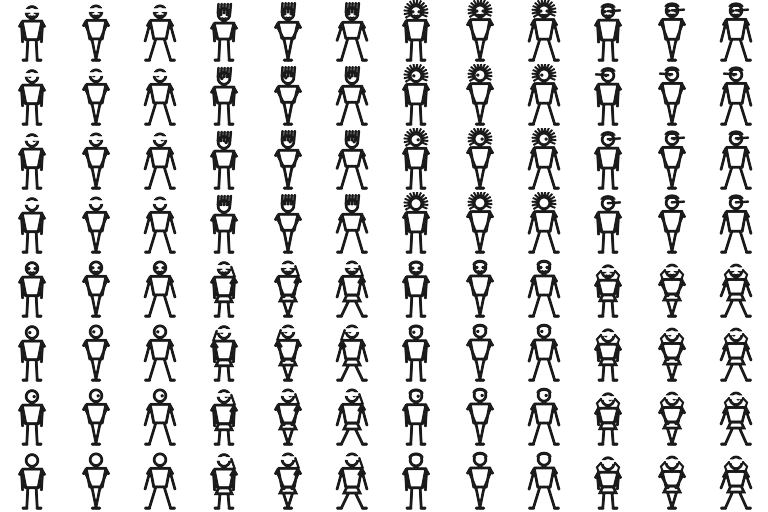
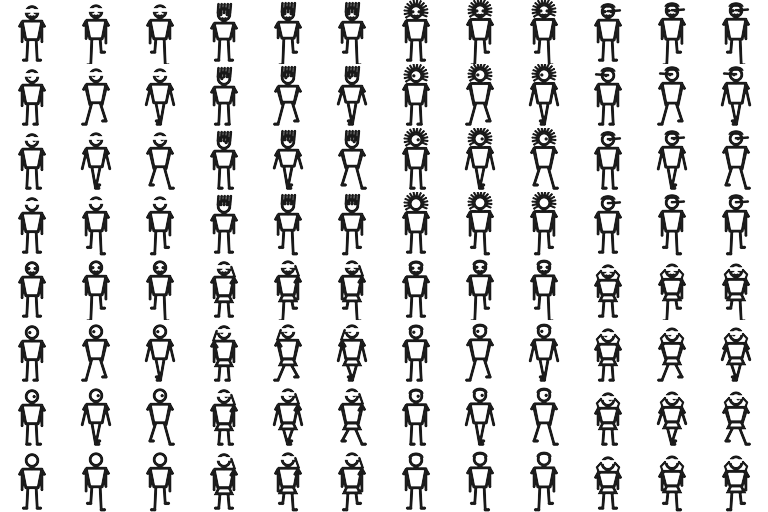
fix(character): 简笔画走路改为左右脚交替迈步
原走路只是脚横向小摆, 读不出步态。改为:
- 帧0=站立中性(停下停此帧), 帧1/2=左右脚交替前后迈步
- 后摆脚抬起离地, 迈步时身体轻微上弹
- 手臂与同侧腿反向摆; 迈步方向按朝向(上下纵向/左右横向)

diff --git a/scripts/gen_doodle_sprites.py b/scripts/gen_doodle_sprites.py
@@ -100,9 +100,14 @@ def draw_figure(direction, phase, params):
     w = C * 0.05
     b = params['build']
     cx = C*0.5
-    # 走路: 相位 0/1/2 -> 中性/左迈/右迈 ; 1px 上下弹跳
-    stride = {0: 0.0, 1: -1.0, 2: 1.0}[phase]
-    bounce = (-C*0.012) if phase != 0 else 0.0
+    # 步态: 帧0=站立中性(停下时停在这帧), 帧1/2=左右脚交替迈步
+    # (左腿, 右腿) 沿"前进轴"的位移: +前 / -后
+    lf, rf = {0: (0, 0), 1: (1, -1), 2: (-1, 1)}[phase]
+    # 朝向决定前进轴: 上下=纵向, 左右=横向
+    fwd = {'down': (0, 1), 'up': (0, -1), 'left': (-1, 0), 'right': (1, 0)}[direction]
+    STEP = C*0.075   # 迈步幅度
+    LIFT = C*0.05    # 后摆脚抬起高度
+    bounce = (-C*0.014) if phase != 0 else 0.0  # 迈步时身体轻微上弹
     head_r = C*0.115
     head_cy = C*(0.5-0.305*b) + bounce
     sh_y = head_cy + head_r + w*0.4
@@ -110,7 +115,6 @@ def draw_figure(direction, phase, params):
     foot_y = C*0.94
     sh_w = C*0.155
     hip_w = C*0.065
-    swing = C*0.085*stride
 
     # T 恤 (梯形躯干 + 短袖)
     torso = [(cx-sh_w, sh_y), (cx+sh_w, sh_y),
@@ -135,10 +139,15 @@ def draw_figure(direction, phase, params):
         dot(d, cx+ex*0.7, ey, w*0.55)
     # 头发
     draw_hair(d, cx, head_cy, head_r, w, params['hair'], direction)
-    # 手臂 (体侧下垂, 走路轻摆)
-    stroke(d, (cx-sh_w*1.05, sh_y+w*1.4), (cx-sh_w*0.95-swing, hip_y+C*0.03), w)
-    stroke(d, (cx+sh_w*1.05, sh_y+w*1.4), (cx+sh_w*0.95+swing, hip_y+C*0.03), w)
-    # 腿 / 裙
+    # 手臂 (体侧下垂; 走路时与同侧腿反向摆)
+    arm_amt = C*0.06
+    for sgn, leg_st in ((-1, lf), (1, rf)):
+        ax = cx + sgn*sh_w*1.0
+        # 手臂沿前进轴反向摆 (横向朝向才明显; 纵向朝向手臂略前后)
+        ahx = ax - leg_st*arm_amt*fwd[0]
+        ahy = hip_y + C*0.03 - leg_st*arm_amt*fwd[1]*0.6
+        stroke(d, (ax, sh_y+w*1.4), (ahx, ahy), w)
+    # 裙
     if params['skirt']:
         d.polygon([(cx-hip_w*1.5, hip_y-w*0.4), (cx+hip_w*1.5, hip_y-w*0.4),
                    (cx+sh_w*1.05, hip_y+C*0.12), (cx-sh_w*1.05, hip_y+C*0.12)],
@@ -146,11 +155,17 @@ def draw_figure(direction, phase, params):
         leg_top = hip_y+C*0.12
     else:
         leg_top = hip_y
-    stroke(d, (cx-hip_w, leg_top), (cx-hip_w*1.25-swing, foot_y), w)
-    stroke(d, (cx+hip_w, leg_top), (cx+hip_w*1.25+swing, foot_y), w)
-    # 鞋
-    stroke(d, (cx-hip_w*1.25-swing, foot_y), (cx-hip_w*1.25-swing-C*0.055, foot_y), w*1.1)
-    stroke(d, (cx+hip_w*1.25+swing, foot_y), (cx+hip_w*1.25+swing+C*0.055, foot_y), w*1.1)
+    # 腿 (左右交替迈步, 后摆脚抬起)
+    toe = C*0.05
+    for sgn, st in ((-1, lf), (1, rf)):
+        fx = cx + sgn*hip_w*1.25 + st*STEP*fwd[0]
+        fy = foot_y + st*STEP*fwd[1]
+        if st < 0:           # 后摆脚抬起离地
+            fy -= LIFT
+        stroke(d, (cx + sgn*hip_w, leg_top), (fx, fy), w)
+        # 鞋: 横向朝向脚尖朝前, 纵向朝向脚尖朝外
+        tdx = fwd[0]*toe if fwd[0] != 0 else sgn*toe
+        stroke(d, (fx, fy), (fx + tdx, fy), w*1.1)
 
     return img.resize((T, T), Image.LANCZOS)
 